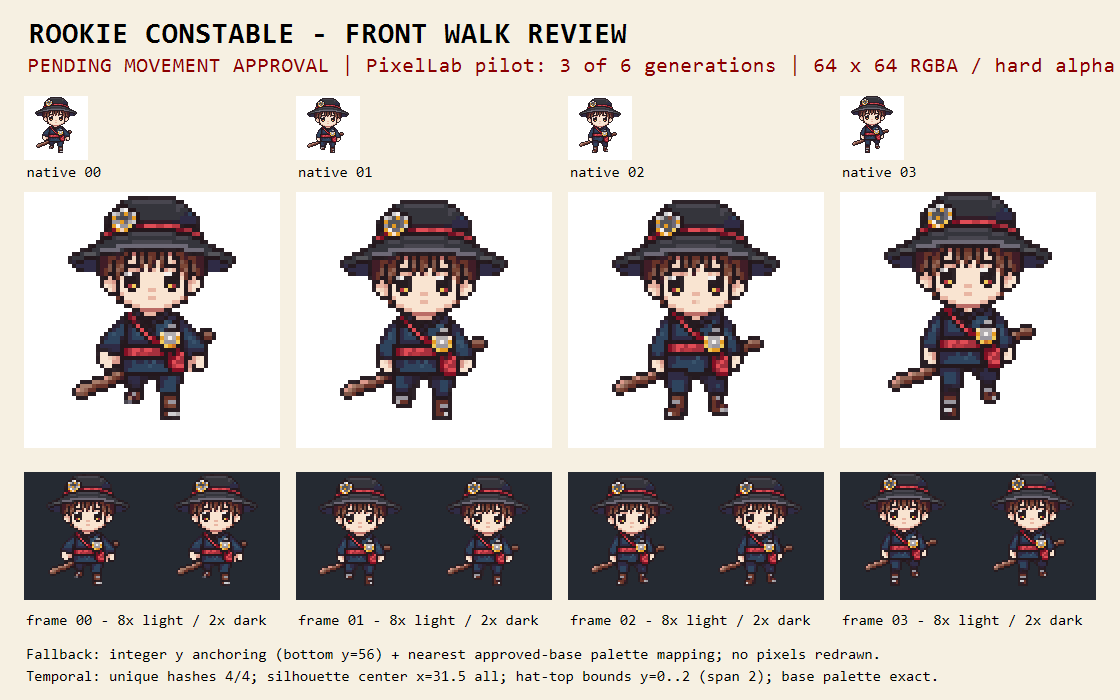
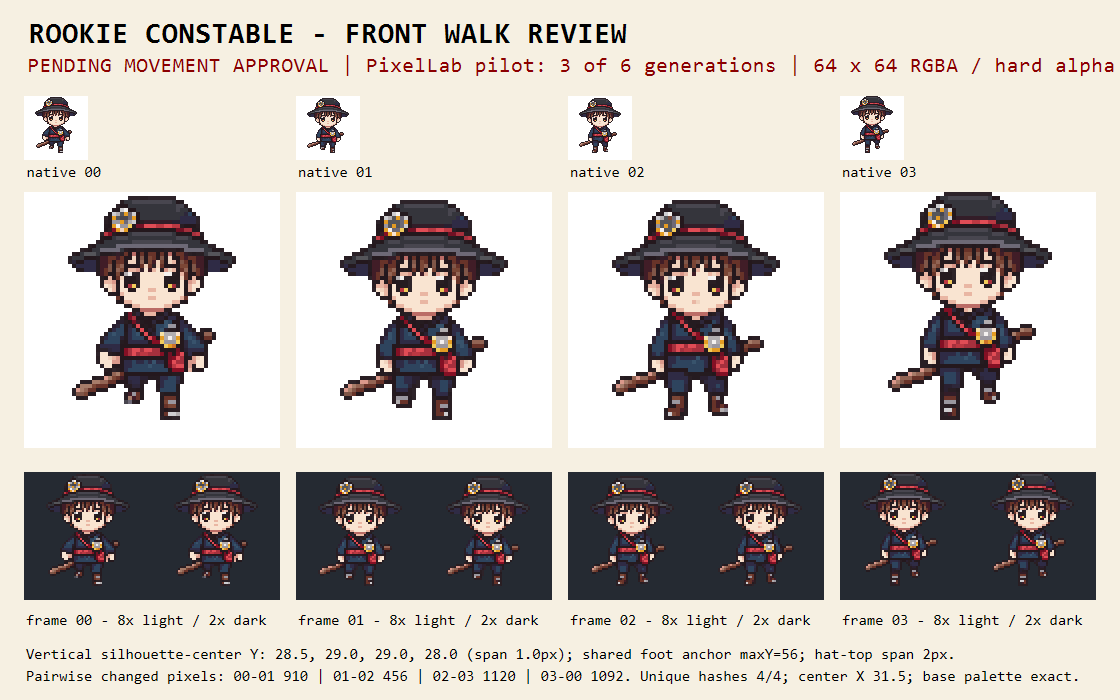
art: document constable walk temporal metrics

Changed region(s): [[0.0312, 0.93, 0.9688, 0.99]]

diff --git a/Docs/Assets/review/rookie-constable-pixellab.md b/Docs/Assets/review/rookie-constable-pixellab.md
@@ -12,6 +12,8 @@ The first PixelLab base result was rejected because it contained two characters.
 
 `move/move-00.png` through `move/move-03.png` are a four-frame front-facing walking-in-place loop generated from approved `base.png` with PixelLab `animate_image` job `054aca37-6359-4a13-bca7-e3fbc3065bc6` (one generation). The review board shows each native frame, nearest-neighbor enlarged light presentation, numbered strip on a dark background, and temporal metrics.
 
-Deterministic post-processing translated each complete frame vertically to the approved foot anchor (opaque bottom y=56) and mapped opaque colors to the exact approved-base palette. It did not redraw, add, or otherwise invent pixels. Validation passed: all frames are 64 x 64 `Format32bppArgb`, hard-alpha, transparent-corner PNGs; 37-38 opaque colors; bounds `(11,0..2)-(52,56)`; silhouette center x `31.5` for every frame; four distinct SHA-256 hashes; and no colors outside the base palette. Hat-top span is two pixels, within the two-pixel limit; visual eye registration is within one pixel across the ordered strip.
+The sole PixelLab input/reference was approved `ArtSource/Pixel/Characters/front-facing/rookie-constable/base.png` (`SHA-256 1DDB67DBB86EFF92243BFCA5FFAA3AFB54AFB532AD2E32D4924BB13FFD994C7F`). Deterministic post-processing translated each complete frame vertically to the approved foot anchor (opaque bottom y=56) and mapped opaque colors to the exact approved-base palette. It did not redraw, add, or otherwise invent pixels. Validation passed: all frames are 64 x 64 `Format32bppArgb`, hard-alpha, transparent-corner PNGs; 37-38 opaque colors; bounds `(11,0..2)-(52,56)`; silhouette center x `31.5` for every frame; four distinct SHA-256 hashes; and no colors outside the base palette. Hat-top span is two pixels, within the two-pixel limit; visual eye registration is within one pixel across the ordered strip.
+
+For the mandated bob, the vertical-position metric is the opaque-silhouette bounds center Y after preserving the shared foot anchor: move-00 `28.5`, move-01 `29.0`, move-02 `29.0`, move-03 `28.0`; full span `1.0 px` (PASS). This resolves the apparent top-bound span: hat top is an identity/hat-bound check, while center Y measures whole-silhouette bob without permitting the feet to slip. Pairwise changed-pixel counts in loop order are move-00→01 `910`, 01→02 `456`, 02→03 `1120`, and 03→00 `1092`; every pair is non-identical.
 
 An attempted reference-edit job `585c01c7-233d-4c9b-9f98-7481904946d0` quoted approximately 20 generations and was abandoned without polling, downloading, or using results. The authoritative balance remained 3 used / 37 remaining, so it is not counted as consumed.
